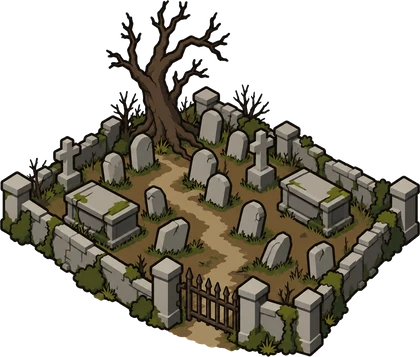
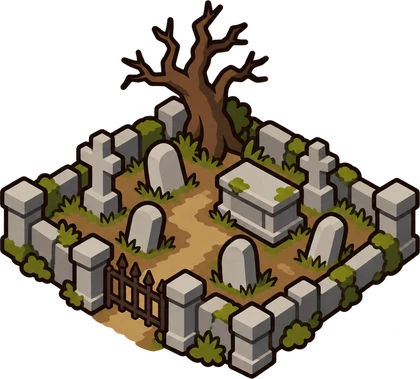
大地圖墓地換大爺給的新圖
Claude-Session: https://claude.ai/code/session_011YwBBjVtZLLsN9qqqMZSzs

diff --git a/js/art/worldmap.js b/js/art/worldmap.js
@@ -25,7 +25,7 @@ const WORLD_ART={terrain:'assets/world/terrain.webp',town:'assets/world/town.web
 function worldMapSVG(sel,here,pos,alert){
  const {width:W,height:H,locations,links}=WORLD;
  const roads=links.map(({a,b})=>{const {p,q,cx,cy}=roadCurve(a,b);const d=`M${p.x} ${p.y} Q${cx} ${cy} ${q.x} ${q.y}`;return `<path d="${d}" stroke="#513826" stroke-width="21" fill="none" stroke-linecap="round"/><path d="${d}" stroke="#dbbd86" stroke-width="13" fill="none" stroke-linecap="round"/>`;}).join('');
- const places=[...locations].sort((a,b)=>a.y-b.y).map(l=>{const w=l.id==='tavern'?175:l.id==='graveyard'?160:220,h=l.id==='town'?195:l.id==='graveyard'?142:170;return `<image href="${sceneAssetURL(WORLD_ART[l.id])}" x="${l.x-w/2}" y="${l.y-h+15}" width="${w}" height="${h}"/>`;}).join('');
+ const places=[...locations].sort((a,b)=>a.y-b.y).map(l=>{const w=l.id==='tavern'?175:l.id==='graveyard'?160:220,h=l.id==='town'?195:l.id==='graveyard'?144:170;return `<image href="${sceneAssetURL(WORLD_ART[l.id])}" x="${l.x-w/2}" y="${l.y-h+15}" width="${w}" height="${h}"/>`;}).join('');
  const labels=locations.map(l=>`<g class="loc" data-loc="${l.id}" tabindex="0" role="button" aria-label="${l.name}"><rect x="${l.x-100}" y="${l.y-160}" width="200" height="240" fill="transparent"/></g>`).join('');
  const at=pos||locations.find(l=>l.id===here);
  return `<svg class="worldmap" viewBox="0 0 ${W} ${H}" xmlns="http://www.w3.org/2000/svg"><g id="map-terrain"><image href="${sceneAssetURL(WORLD_ART.terrain)}" width="${W}" height="${H}" preserveAspectRatio="none"/></g><g id="map-roads">${roads}</g><g id="map-places">${places}</g><g id="map-labels">${labels}</g><g id="map-quests">${typeof questPinsSVG==="function"?questPinsSVG():""}${typeof mainPinsSVG==="function"?mainPinsSVG():""}</g><g id="party-marker" pointer-events="none" transform="translate(${at.x} ${at.y})">${partyMarkerSVG(alert)}</g></svg>`;
